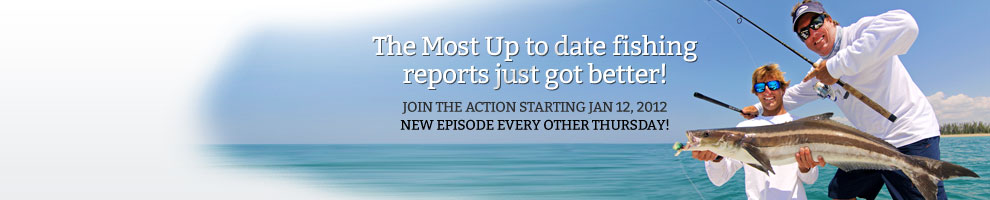
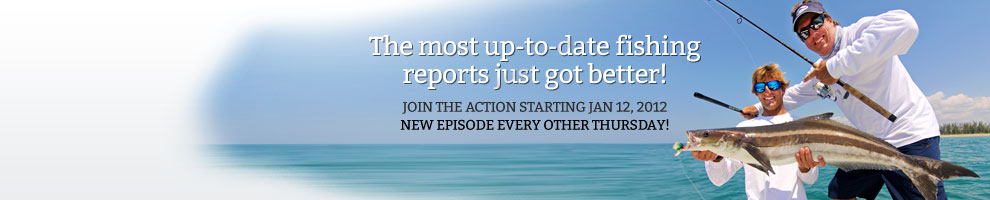
New reel time header graphic

Changed region(s): [[0.3636, 0.15, 0.7273, 0.33]]

diff --git a/wp-content/themes/imo-mags-floridasportsman/style.css b/wp-content/themes/imo-mags-floridasportsman/style.css
@@ -25,11 +25,7 @@
  * **********************************************************************
  *
  */
-
-.ngg-imagebrowser-nav a {
-color: #fff !important;
-background: #BF3D06;
-}
+ 
 
 a {
 	color: #0079ba;
@@ -600,6 +596,18 @@ aside.widget .newsletter h3.gform_title {
     font-family: "Arvo", Helvetica, Arial, sans-serif;
     font-weight: bold;
 }
+
+/*sign up email field fix*/
+#field_3_1 {
+margin: 0px;
+}
+/*next gen button color*/
+.ngg-imagebrowser-nav a {
+color: #fff !important;
+background: #BF3D06;
+}
+
+
 /*BONUS SIDEBAR*/
 
 .bonus-background {
@@ -709,31 +717,38 @@ nav.nav-secondary li.current-menu-item a {
 }
 
 .page-template-page-right-php.reeltime-template .bonus-background {
-width: 335px;
+	width: 335px;
 }
 .page-template-page-right-php.reeltime-template .bonus {
-margin-left: 25px;
+	margin-left: 25px;
 }
 .page-template-page-right-php.reeltime-template .col-abc {
-width: 630px;
+	width: 630px;
 }
 .page-template-page-right-php.reeltime-template .cfct-block.block-1.cfct-block-b, .page-template-page-right-php.reeltime-template .cfct-block.block-2.cfct-block-c {
-margin-left: 5px;
+	margin-left: 5px;
 }
 .page-template-page-right-php.reeltime-template .cfct-block.block-2.cfct-block-c {
-margin-right: 0px;
+	margin-right: 0px;
 }
 
 .page-template-page-right-php.reeltime-template .cfct-module .cfct-mod-title a {
-font-size: 18px;
+	font-size: 18px;
 }
 .page-template-page-right-php.reeltime-template .cfct-block-c {
-padding-left: 0px;
-margin: 0px;
+	padding-left: 0px;
+	margin: 0px;
 }
 .page-template-page-right-php.reeltime-template .cfct-block-bc {
-margin: 0px;
+	margin: 0px;
 }
 .page-template-page-right-php.reeltime-template .entry-full {
-border-bottom: 0px dotted #999;
+	border-bottom: 0px dotted #999;
+}
+
+#reeltime-wrapper #idc-container-parent {
+	display: none;
+}
+#reeltime-wrapper #bonus-area h2 {
+	font-size: 16px;
 }
